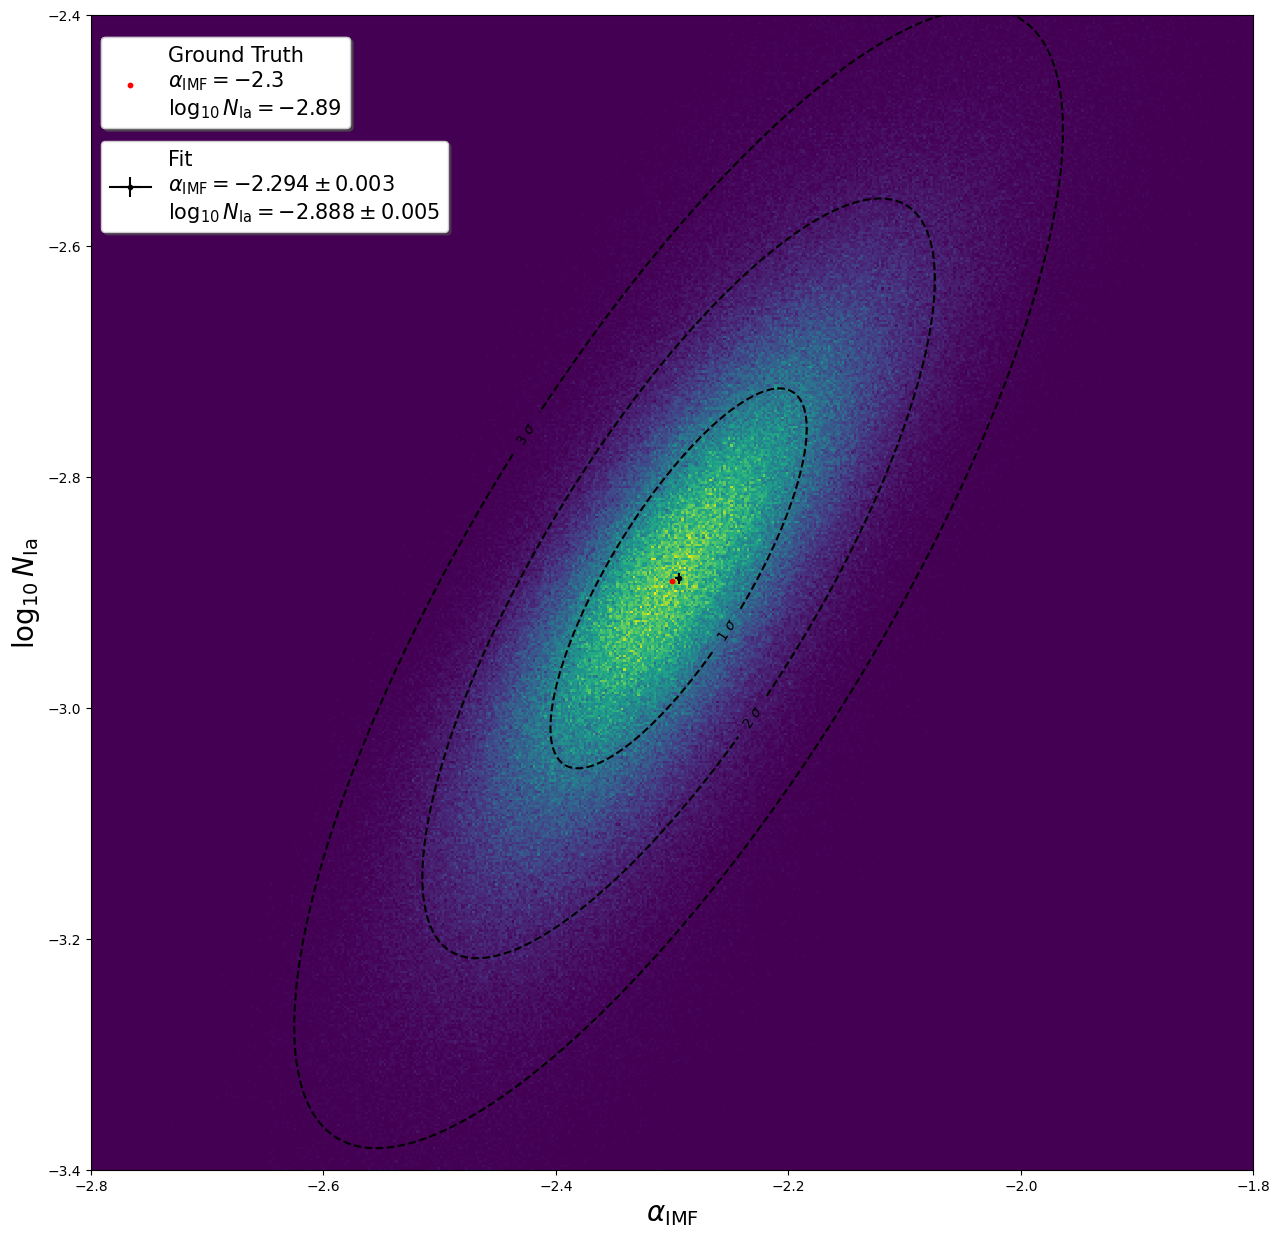
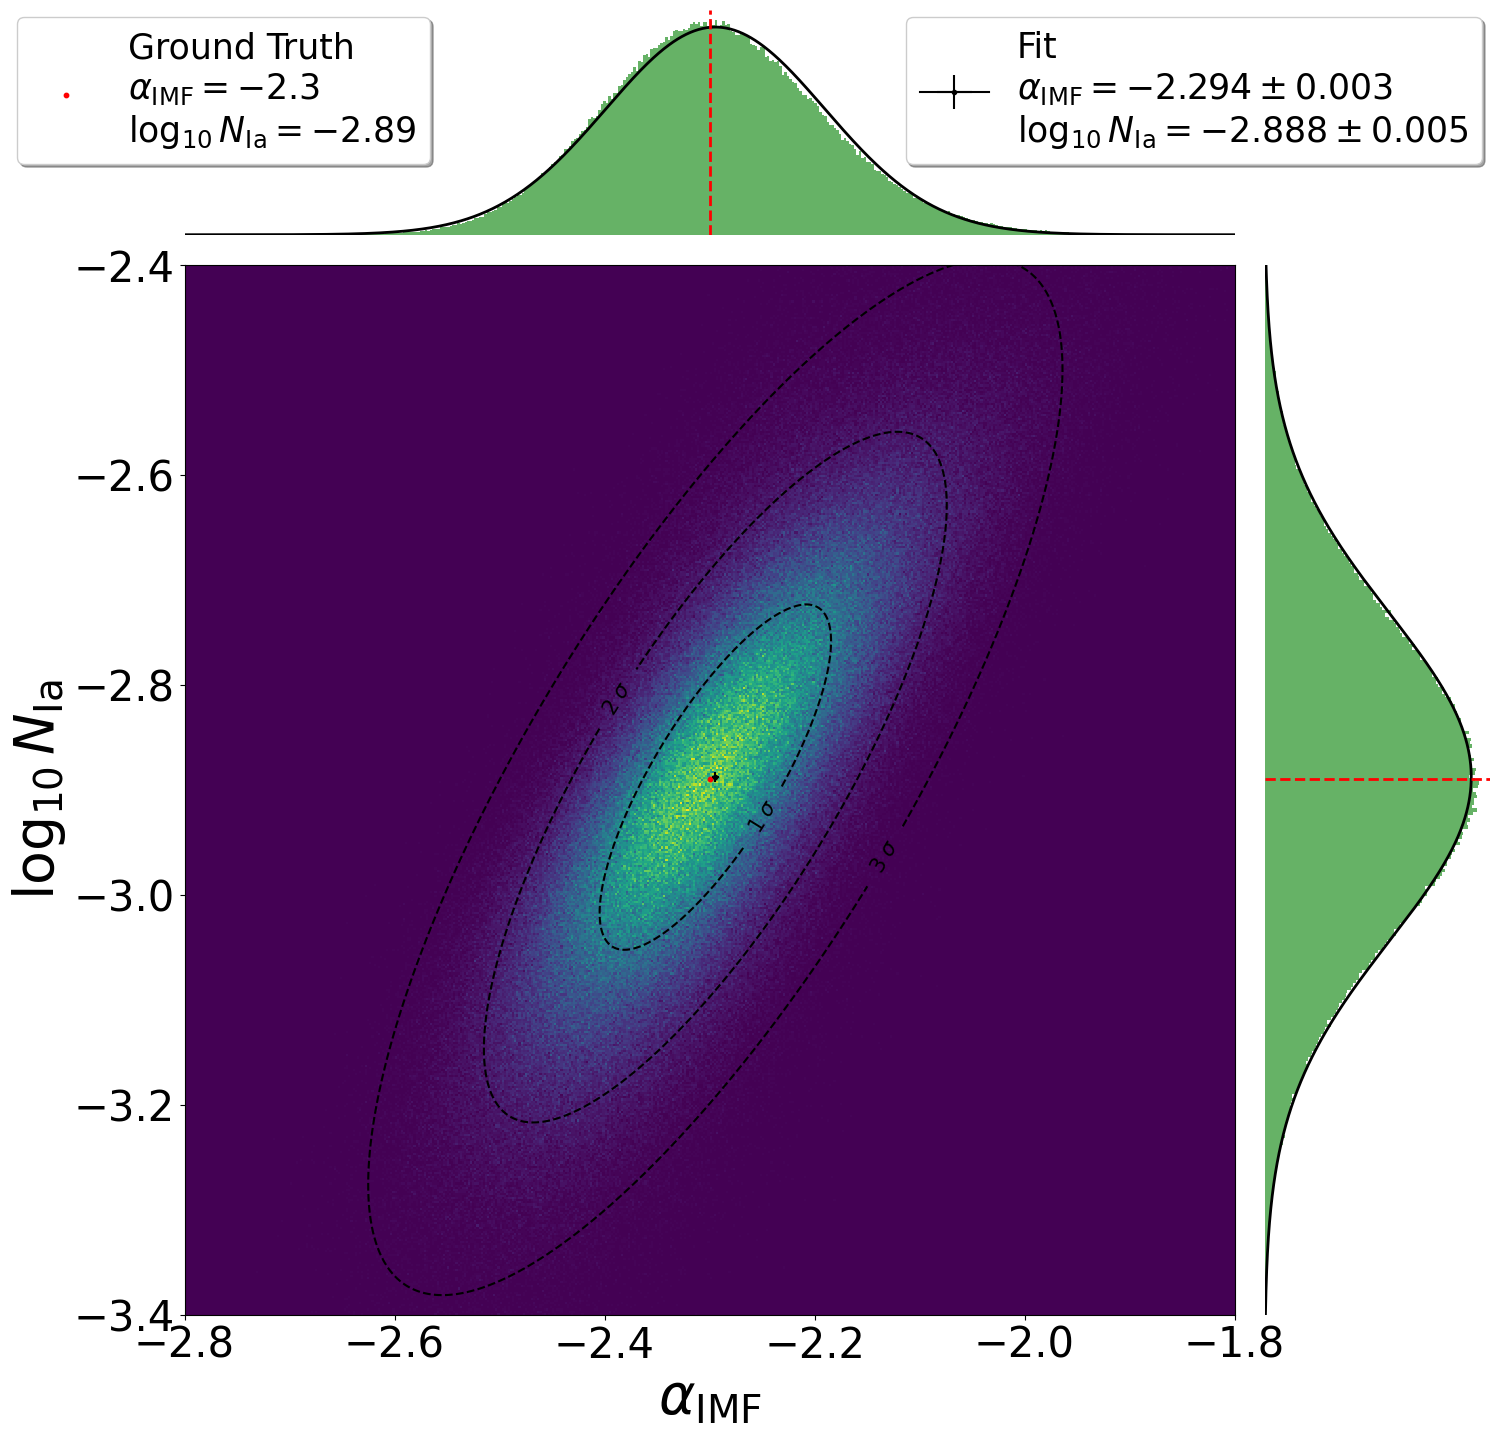
readme

diff --git a/README.md b/README.md
@@ -38,41 +38,49 @@ The NPE is has an absolute percantage error (APE) of $9.1^{+16.6}_{-6.2}\\%$ for
 
 The accuracy for a single prediction of the parameters is not really high. That's why we use multiple stars from the same galaxy to infer the global galactic parameters $\alpha_{IMF}$ & $log_{10}N_{Ia}$, since they are the same for all stars in the same galaxy. <br>
 
-## 3. Sample from Posterior
+## 3. Inference
+
 Finally we sample from the posterior distribution to infer the global galactic parameters. <br>
-For that we use the chemical abundances of $1000$ stars from the same galaxy created with the NN. We used $\alpha_{IMF} = -2.3$ and $log_{10}N_{Ia} = -2.89$ and draw the local parameters from the prior distributions. <br>
-The NPE is then used to infer the global galactic parameters. <br>
-As expected, the inferred parameters deviate from the ground truth, since the NPE has a high error rate for a single prediction, but is able to infer the global parameters with a high accuracy for a growing number of stars. <br>
-The total inference time for the $1000$ stars is around $1$ minute.
+For that we use the chemical abundances of $1000$ stars from the same galaxy (meaning they have the same galactic parameters $\Lambda$) and the local parameters $\Theta_i$ are sampled from the priors.
+The galactic parameters were fixed to  $\alpha_{IMF} = -2.3$ and $log_{10}N_{Ia} = -2.89$. <br>
+The first set is created with the NN trained on data created with the TNG yield set. <br>
+The second set is created from $CHEMPY$ directly with an alternative yield set. <br>
+The third set is data created with the TNG simulator. <br>
 
-<div style="display: flex; justify-content: space-between;">
-  <img src="plots/sbi_Nstar_comp.png" style="width: 80%;"/>
-  <img src="plots/sbi_1000stars_noise.png" style="width: 19%;"/>
-</div>
+### TNG yield set
+<p align="center">
+  <img src="plots/sbi_Nstar_comp.png" />
+</p>
 
-We can see that the estimated parameters $\alpha_{IMF}$ & $log_{10}N_{Ia}$ can be predicted with a high accuracy in a reasonable time compared to traditional MCMC methods. <br>
-
-### CHEMPY alternative yield set
-The posterior trained above was also tested with data created with an alternative yield set in the $CHEMPY$ simulator.
-| Type | Yield Table |
-| --- | --- |
-| SN Ia | Thielemann et al. (2003) |
-| SN II | Nomoto et al. (2013) |
-| AGB | Karakas & Lugaro (2016) |
-
-We can see, that the predicted values are off from the ground truth. This is due to the fact that the NN was trained on the TNG yield set and the NPE is not able to generalize to other yield sets. <br>
-However, the deviation is not that high with an error of $\Delta\alpha_{IMF}=3.7\\%$ and $\Delta log_{10}N_{Ia}=6.3\\%$.
-
-<div style="display: flex; justify-content: space-between;">
-  <img src="plots/sbi_Nstar_analysis_alt.png" style="width: 80%;"/>
-  <img src="plots/sbi_1000stars_noise_alt.png" style="width: 19%;"/>
-</div>
+### Alternative yield set
+<p align="center">
+  <img src="plots/sbi_Nstar_analysis_alt.png" />
+</p>
 
 ### TNG simulation data
-We also tested the posterior trained above with data created with the TNG simulator.
-The prediction is still a bit off from the ground truth, even though the NN was trained on $CHEMPY$ data created with the TNG yield set. <br>
-However, the errors are still in an acceptable range with $\Delta\alpha_{IMF}=1.3\\%$ and $\Delta log_{10}N_{Ia}=0.8\\%$.
+<p align="center">
+  <img src="plots/sbi_Nstar_analysis_tng.png" />
+</p>
+
 <div style="display: flex; justify-content: space-between;">
-  <img src="plots/sbi_Nstar_analysis_tng.png" style="width: 80%;"/>
-  <img src="plots/sbi_1000stars_noise_tng.png" style="width: 19%;"/>
+  <img src="plots/sbi_1000stars_noise.png" style="width: 33%;"/>
+  <img src="plots/sbi_1000stars_noise_alt.png" style="width: 33%;"/>
+  <img src="plots/sbi_1000stars_noise_tng.png" style="width: 33%;"/>
 </div>
+
+| | $CHEMPY$ TNG yield set | $CHEMPY$ Alternative yield set | TNG simulation data |
+|---|---|---|---|
+| SN Ia | TNG_net | Thielemann et al. (2003) |
+| SN II | TNG_net | Nomoto et al. (2013) |
+| AGB | TNG | Karakas & Lugaro (2016) |
+| $\alpha_{IMF}$ | $-2.294 \pm 0.003$ | $-2.385 \pm 0.003$ | $-2.270 \pm 0.005$ |
+|$\log_{10}N_{Ia}$| $-2.888 \pm 0.005$ | $-3.072 \pm 0.007$ | $-2.913 \pm 0.006$ |
+| $\Delta\alpha_{IMF}$ | $0.26\\% $ | $3.7\\%$ | $1.3\\%$ |
+| $\Delta\log_{10}N_{Ia}$ | $0.07\\%$ | $6.3\\%$ | $0.8\\%$ |
+
+As expected, the inferred parameters deviate from the ground truth for a sigle prediction, since the NPE has a high error rate, 
+but is able to infer the global parameters with a high accuracy for a growing number of stars in the case where we used data created with the correct yield set
+that the posterior was trained on. 
+The prediction for the TNG simulator seems also to be quite close to the ground truth. <br>
+The deviation is higher for the alternative yield set, since the NN was trained on the TNG yield set and the NPE is not able to generalize to other yield sets. <br>
+The total inference time for $1000$ simulations for the $1000$ stars is around $1$ minute for each yield set and therefore in a reasonable range compared to traditional MCMC methods. <br>
